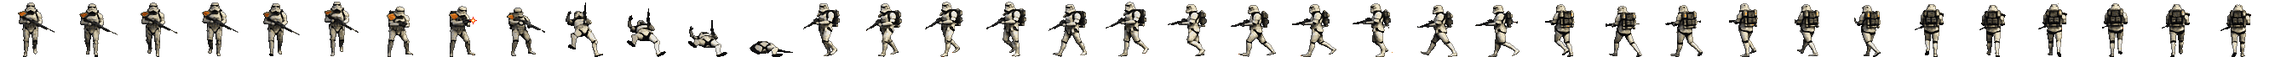
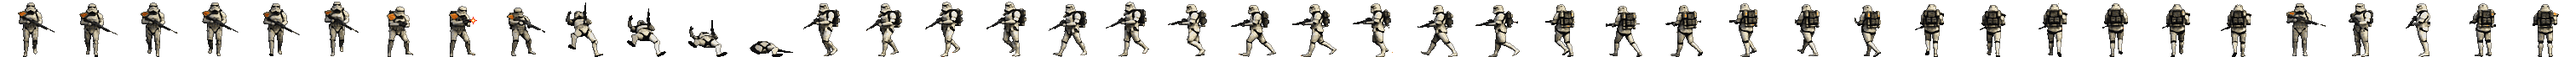
Sandtroopers and Jawas: stand in the turnaround poses
Mark found the standing poses still had a knee up from several angles:
every walk frame is mid-step. The cutters now also cut each sheet's
turnaround (front, three-quarter, side, back three-quarter, back) as
frames 37-41, as the villagers' already do, and idle shows those. The
Jawa's turnaround has three front poses and two back ones, so side-on
it shows the front turned a little. Frames 0-36 are unchanged pixel for
pixel; the Jawa's frames grow from 50 to 52 tall for the taller poses.

diff --git a/src/content/monsters/jawa.js b/src/content/monsters/jawa.js
@@ -8,7 +8,7 @@ export default defineMonster({
   id: 'jawa',
   name: 'Jawa',
   glyph: 'j',
-  sheet: { src: 'assets/sprites/monsters/jawa.png', frameWidth: 50, frameHeight: 50 },
+  sheet: { src: 'assets/sprites/monsters/jawa.png', frameWidth: 50, frameHeight: 52 },
   scale: 0.85,
   health: 12,
   speed: 5.5,
@@ -22,8 +22,9 @@ export default defineMonster({
   light: { radius: 3.5, light: 64 }, // the muzzle flash, on the attack's fullbright frames
   anims: {
     // The walk's views are 13-36 (front three-quarter, side, back three-quarter, back).
-    // Standing: the walk's frame with the robe narrowest at the feet in each view.
-    idle: { frames: [3], fps: 1, loop: true, views: { frontSide: [13], side: [22], backSide: [28], back: [34] } },
+    // Standing: the turnaround (37-41). It has no side view: the side shows
+    // the front turned a little (39).
+    idle: { frames: [37], fps: 1, loop: true, views: { frontSide: [38], side: [39], backSide: [40], back: [41] } },
     walk: { frames: [0, 1, 2, 3, 4, 5], fps: 10, views: { frontSide: [13, 14, 15, 16, 17, 18], side: [19, 20, 21, 22, 23, 24], backSide: [25, 26, 27, 28, 29, 30], back: [31, 32, 33, 34, 35, 36] } },
     attack: { frames: [6, 7, 6], durations: [0.4, 0.12, 0.25], fireAt: 1, fullbright: [1] },
     pain: { frames: [8], durations: [0.2] },

diff --git a/src/content/monsters/sandtrooper.js b/src/content/monsters/sandtrooper.js
@@ -24,8 +24,8 @@ export default defineMonster({
   light: { radius: 3.5, light: 80 }, // the muzzle flash, on the attack's fullbright frames
   anims: {
     // The walk's views are 13-36 (front three-quarter, side, back three-quarter, back).
-    // Standing: the walk's fourth frame, its feet together.
-    idle: { frames: [3], fps: 1, loop: true, views: { frontSide: [16], side: [22], backSide: [28], back: [34] } },
+    // Standing: the turnaround (37-41), one frame per view.
+    idle: { frames: [37], fps: 1, loop: true, views: { frontSide: [38], side: [39], backSide: [40], back: [41] } },
     walk: { frames: [0, 1, 2, 3, 4, 5], fps: 8, views: { frontSide: [13, 14, 15, 16, 17, 18], side: [19, 20, 21, 22, 23, 24], backSide: [25, 26, 27, 28, 29, 30], back: [31, 32, 33, 34, 35, 36] } },
     attack: { frames: [6, 7, 6, 7, 6, 7, 6], durations: [0.35, 0.1, 0.08, 0.1, 0.08, 0.1, 0.25], fireAt: [1, 3, 5], fullbright: [1, 3, 5] },
     pain: { frames: [8], durations: [0.2] },

diff --git a/src/content/monsters/sandtrooper-commander.js b/src/content/monsters/sandtrooper-commander.js
@@ -26,8 +26,8 @@ export default defineMonster({
   anims: {
     // The sandtrooper's frame order: the walk's views are 13-36 (front
     // three-quarter, side, back three-quarter, back).
-    // Standing: the walk's fourth frame, its feet together.
-    idle: { frames: [3], fps: 1, loop: true, views: { frontSide: [16], side: [22], backSide: [28], back: [34] } },
+    // Standing: the turnaround (37-41), one frame per view.
+    idle: { frames: [37], fps: 1, loop: true, views: { frontSide: [38], side: [39], backSide: [40], back: [41] } },
     walk: { frames: [0, 1, 2, 3, 4, 5], fps: 8, views: { frontSide: [13, 14, 15, 16, 17, 18], side: [19, 20, 21, 22, 23, 24], backSide: [25, 26, 27, 28, 29, 30], back: [31, 32, 33, 34, 35, 36] } },
     attack: { frames: [6, 7, 6, 7, 6, 7, 6], durations: [0.35, 0.1, 0.08, 0.1, 0.08, 0.1, 0.25], fireAt: [1, 3, 5], fullbright: [1, 3, 5] },
     pain: { frames: [8], durations: [0.2] },

diff --git a/tests/content.test.js b/tests/content.test.js
@@ -85,7 +85,7 @@ test('every monster and friendly is placed in some level, so the minute of play 
 });
 
 test('every villager, sandtrooper, commander and Jawa sheet holds all its frames and views, and a villager says a line when used', () => {
-  const cut = [...villagers.map((def) => [def, 42]), ...['sandtrooper', 'sandtrooper-commander', 'jawa'].map((id) => [registry.things.get(id), 37])];
+  const cut = [...villagers, ...['sandtrooper', 'sandtrooper-commander', 'jawa'].map((id) => registry.things.get(id))].map((def) => [def, 42]);
   for (const [def, count] of cut) {
     const id = def.id;
     const sheet = registry.sheets.get(def.sheet.ref);

diff --git a/assets/custom/sandtrooper/cut.py b/assets/custom/sandtrooper/cut.py
@@ -11,7 +11,8 @@ sharper T-21 and the black pauldron and writes
 assets/sprites/monsters/sandtrooper.png. The frame order is the one in
 src/content/monsters/sandtrooper.js: 0-5 walk, 6 aim, 7 fire, 8 pain,
 9-12 death; then the walk from the other views, six frames each (13-18
-front three-quarter, 19-24 side, 25-30 back three-quarter, 31-36 back).
+front three-quarter, 19-24 side, 25-30 back three-quarter, 31-36 back);
+37-41 standing, from the same five views (the sheet's turnaround).
 `--preview` also writes the sheet 4x on grey, for checking.
 
 Every one of the sheet's 48 poses is cut apart and restyled together, into
@@ -81,10 +82,13 @@ GROUPS = [
     dict(box=(870, 640, 1100, 835), figures=3, base=829, thin=True),
 ]
 # Sheet frame -> (row, pose) in the layout: the walk, aim, fire, pain, the
-# death; the walk's front three-quarter, side, back three-quarter and back.
+# death; the walk's front three-quarter, side, back three-quarter and back;
+# the turnaround, standing (front, front three-quarter, side, back
+# three-quarter, back).
 FRAMES = [
     *[(0, i) for i in range(6)], (1, 6), (1, 7), (3, 0), *[(1, i) for i in range(9, 13)],
     *[(0, i) for i in range(6, 12)], *[(2, i) for i in range(12)], *[(1, i) for i in range(6)],
+    *[(3, i) for i in range(6, 11)],
 ]
 FIRE = (1, 7)
 MUZZLE = (648, 291)  # the fire pose's muzzle, on the sheet

diff --git a/assets/custom/jawa/cut.py b/assets/custom/jawa/cut.py
@@ -8,7 +8,8 @@ The shared steps are in ../sheetcut.py. Writes
 assets/sprites/monsters/jawa.png, in the frame order of
 src/content/monsters/jawa.js: 0-5 walk, 6 aim, 7 fire, 8 pain, 9-12 death;
 then the walk from the other views, six frames each (13-18 front
-three-quarter, 19-24 side, 25-30 back three-quarter, 31-36 back).
+three-quarter, 19-24 side, 25-30 back three-quarter, 31-36 back); 37-41
+standing, from the same five views (the sheet's turnaround).
 
 Every pose stands apart on the sheet, so each is cut on its own, with its
 lowest pixel (feet, or body lying down) on the frame's bottom row. The
@@ -46,8 +47,9 @@ FRAMES = [
 ]
 
 # The walk's other views, as (row, pose): front three-quarter (row 1), side
-# and back three-quarter (row 3), back (row 2).
-VIEWS = [*[(0, i) for i in range(6, 12)], *[(2, i) for i in range(12)], *[(1, i) for i in range(6)]]
+# and back three-quarter (row 3), back (row 2); then the turnaround,
+# standing (row 4: front, front three-quarter, side, back three-quarter, back).
+VIEWS = [*[(0, i) for i in range(6, 12)], *[(2, i) for i in range(12)], *[(1, i) for i in range(6)], *[(3, i) for i in range(6, 11)]]
 
 
 def main():

diff --git a/PLAN.md b/PLAN.md
@@ -142,8 +142,9 @@ These need Mark to try something, or to decide. Don't start them without him.
   (nothing else happens yet: m1 has no `on: 'hostile'` trigger). After
   Mark's notes (2026-10-18): they stroll slower (troopers 1.2 tiles a
   second, Jawas 1.5), their legs keep pace (the new calm `stride`: 1.4
-  tiles a walk cycle for a trooper, 0.9 for a Jawa), and they stand with
-  their feet together when stopped. To check by eye: the leg speed, and
+  tiles a walk cycle for a trooper, 0.9 for a Jawa), and they stand in
+  the sheets' turnaround poses when stopped (the Jawa's has no side view,
+  so side-on it shows the front turned a little). To check by eye: the leg speed, and
   the commanders' lines. Still open: the
   lines (the Jawaese is made up), and whether Jawas should run rather
   than fight when the town turns (the story has civilians run; Jawas are
